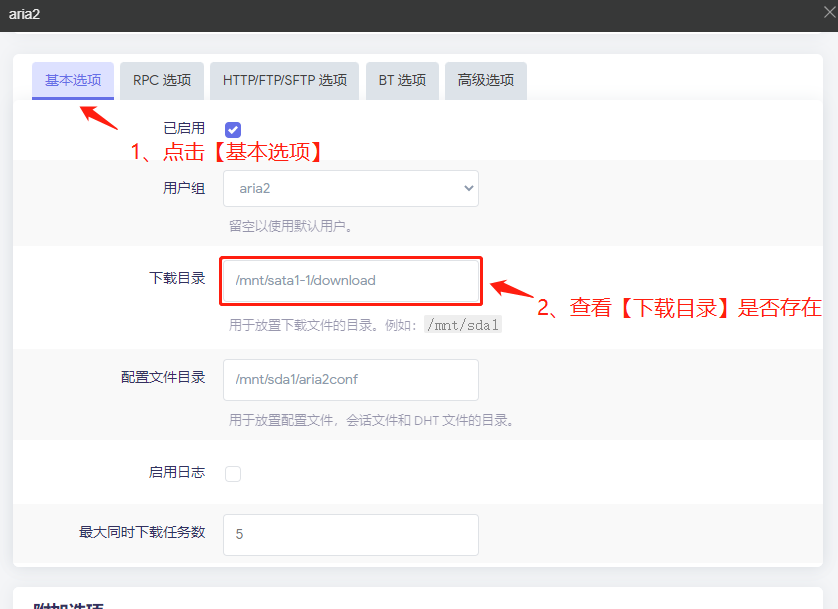
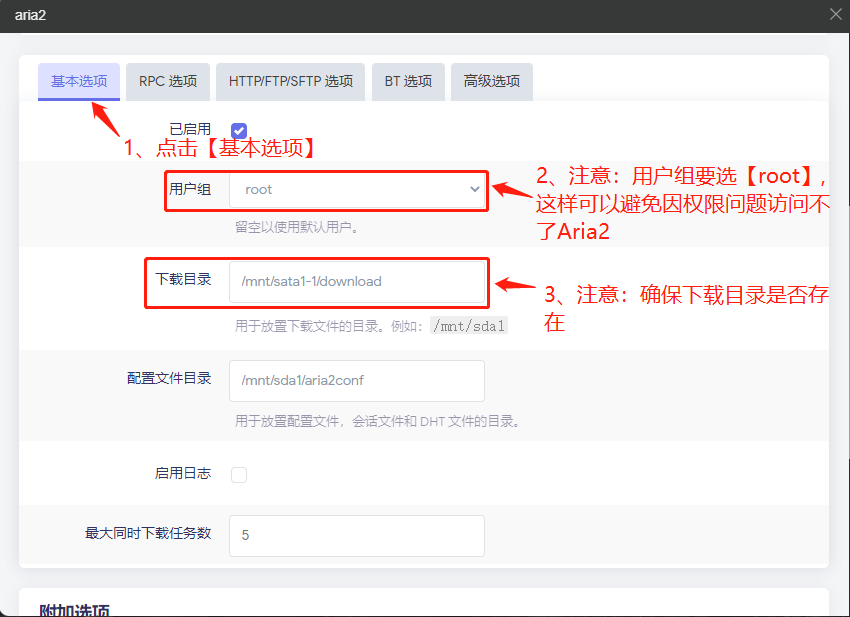
commit Microsoft and wiki remote

diff --git a/docs/.vuepress/config.js b/docs/.vuepress/config.js
@@ -405,12 +405,16 @@ module.exports = ctx => ({
                                 {
                                     title: "常用软件配置", collapsable: true, children: [
                                         ["remote", "远程桌面"],
+                                        ["Microsoft", "下载微软远程软件"],
                                         ["downloads", "下载器插件"],
                                     ]
                                 },
                                 {
                                     title: "网络知识", collapsable: true, children: [
                                         ["remoteProtocol", "远程桌面选RDP还是VNC协议？"],
+                                        ["IP", "内网IP和公网IP的区别"],
+                                        ["networkSegment", "什么是网段，怎么判断我的两台设备是不是处在同一网段"],
+                                        ["DNS", "什么是DNS，域名和IP之间是什么关系"]
                                     ]
                                 },
                             ]

diff --git a/docs/zh/guide/ddnsto/remote_control.md b/docs/zh/guide/ddnsto/remote_control.md
@@ -1,70 +1,10 @@
 
 **<font color=#ff0000 > 首先确保已正确安装ddnsto插件，并且在控制台能看到对应设备在线 [参考安装教程](/zh/guide/ddnsto/start.md) </font>**
 
-## Windows RDP远程桌面
+### [查看被控电脑如何开启远程桌面教程](/zh/guide/wiki/remote.md)
+## RDP远程桌面
 
-### A.专业版开启RDP
-
-**Windows专业版或者更高级的版本是有开关的，可以直接开启电脑的RDP。**
-
-1.Win11：设置——系统——远程桌面——启用
-
-  ![Windows远程](./cloudapp/cloudapp-rdp0.jpg)
-
-2.Win10：设置——系统——远程桌面——启用远程桌面  
-
-  ![Windows远程](./cloudapp/cloudapp-rdp1.jpg)
-
-3.Win7：右键我的电脑——属性——左边侧栏高级系统设置——远程，在下方“远程桌面”方框下勾选“允许远程连接到此计算机”
-  
-  ![Windows远程](./cloudapp/cloudapp-rdp2.jpeg)
-  
-  
-### B.家庭版开启RDP
-
-**Windows家庭版是无法直接开启电脑的RDP，所以需要借助工具。**
-
-1.首先，需要安装SuperRDP
- [点击进入下载](https://github.com/anhkgg/SuperRDP/releases)；
-
-  ![Windows远程](./cloudapp/rdp/rdp1.jpg)
-
-2.下载后解压，运行SuperRDP.exe(需管理员权限)；
-
-  ![Windows远程](./cloudapp/rdp/rdp2.jpg)
-  
-运行后，根据提示选择1(安装)即可。
-  
-  ![Windows远程](./cloudapp/rdp/rdp3.jpg)
-
-3. 验证远程桌面服务是否成功。
-
-* Win+R，输入 mstsc.exe 启动远程桌面程序；
-
-* 输入127.0.0.1，连接成功基本验证服务启用成功。
-
-  ![Windows远程](./cloudapp/rdp/rdp4.jpg)
-  
-
-### C.开始设置  
-  
-1.查看被控制的电脑的IP和用户名/密码。
-
-* 查看IP：控制面板——网络和Internet——网络共享中心，点击“连接”，出来弹窗点击“详细信息”——IPv4地址。
-
-ps：查看IP方法很多，不一定是这一种。
-
-  ![Windows远程](./cloudapp/cloudapp-rdp3.jpg)
-
-
-* 查看用户名：控制面板——用户账户——用户账户，能看到用户名，密码自己设定的。
-
-PS：某些用户是用的微软帐号，没启用本地帐号，那么就使用微软帐号和密码。
-
-或者简单点：电脑开机登录的时候，显示的用户名和要输入的密码。
-
-   ![Windows远程](./cloudapp/cloudapp-rdp4.jpg) 
- 
+1.[如何查看被控电脑的用户名和密码教程](/zh/guide/wiki/remote.md#查看被控电脑的用户名和密码)  
 2.在ddnsto可用应用列表中点击添加远程RDP，填入被控电脑的IP，用户名，密码等信息。
 
    ![Windows远程](./cloudapp/cloudapp-rdp5.jpg) 
@@ -73,7 +13,7 @@ PS：某些用户是用的微软帐号，没启用本地帐号，那么就使用
 
    ![Windows远程](./cloudapp/cloudapp-rdp6.jpg)  
    
-4.相关提醒：
+**4.相关提醒：**
 
 * 被控电脑必须联网且是在设置好穿透(DDNSTO)的网络下；
   
@@ -82,14 +22,11 @@ ps：假如想远程朋友的电脑，朋友的电脑只是联网，没DDNSTO，
 * 被控电脑必须是开机状态，且没进入休眠状态。
   
   
-##  VNC远程桌面
-1.VNC服务端下载、安装、配置。例如：[安装RealVNC](https://www.realvnc.com/en/connect/download/vnc/)
+## VNC远程桌面
 
-   ![Linux-VNC](./cloudapp/cloudapp-vnc1.jpeg)  
-
-2.而DDNSTO的远程VNC，充当VNC Viewer，写好参数，就能远程了。
+DDNSTO的远程VNC，充当VNC Viewer，写好参数，就能远程了。
  
-   ![Linux-VNC](./cloudapp/cloudapp-vnc2.jpeg)  
+![Linux-VNC](./cloudapp/cloudapp-vnc2.jpeg)  
 
 ## 相关链接
 - 如需更流畅、更快，或想使用windows远程桌面客户端，请使用易有云[异地互联](/zh/guide/linkease/remote.md)

diff --git a/docs/zh/guide/wiki/IP.md b/docs/zh/guide/wiki/IP.md
@@ -1,0 +1,28 @@
+## 内网IP和公网IP的区别
+
+内网IP和公网IP是不同的，主要区别在于它们的使用范围和使用目的不同。
+
+### 什么是内网IP？
+
+局域网举个例子就是我们路由器以内的所有设备组成的内部网络。也可以延伸到学校内部网络，公司内部网络。  
+这些网络是不对外部网络开放的，也就是说，我们无法在局域网外访问内部网络。  
+内部网络每个设备都有一个ip，这个就是局域网ip，有了它我们可以对任何一个设备进行定位，管理。  
+内网的IP一般都是192.168.1.100、192.168.0.100、172.16.1.100……这些都是内网IP。  
+通常，内网IP是由路由器在分配IP地址时自动分配的，并在**局域网内唯一**。   
+可以使用局域网内的任何一个电脑访问局域网内的其他设备（电脑、打印机、扫描仪等）。 
+
+### 什么是公网IP？
+
+公网就是指的互联网，其实互联网是一个全球的大局域网，覆盖的范围可以是几十公里到几千公里。    
+它能连接多个地区、城市和国家提供远距离通信，形成全球性的互联网络。  
+公网ip就相当于一扇门，这个门后面就是我们家里的局域网。  
+有了公网ip，我们只要在有网络的地方，就可以迅速通过公网ip找到你的家门，然后找到家中的任何一个设备。  
+公网IP地址是**全球唯一的**，并由因特网号码分配机构（ICANN）管理。  
+通常，网络服务提供商会为用户提供一个固定的公网IP地址，以便用户在互联网上访问各种网站或服务。
+
+### 总结
+对我们来说，公网IP的主要作用就是外网访问。  
+虽然各品牌nas都有自己的外网访问方法，但使用起来速度真的很辣鸡，而且只能文件访问，很多影音功能以及docker服务无法使用。  
+有了公网IP，这些通通不是问题，设置好域名解析和端口映射，访问速度可以跑满上行带宽，任何服务都可以使用。外网在线看nas里的电影不是梦。    
+有了公网ip，其实我们还可以做很多事情，例如远程桌面、网络多拨、优化网络提高相关的收益等等，特别是有nas的朋友，公网ip显得非常重要。
+

diff --git a/docs/zh/guide/wiki/remoteProtocol.md b/docs/zh/guide/wiki/remoteProtocol.md
@@ -1,24 +1,17 @@
 ## 远程桌面选RDP还是VNC？
 
-要远程电脑桌面时，你在纠结是使用RDP还是VNC？  
-我们可以考虑以下一些因素来判断是使用 RDP 还是 VNC。  
+要远程电脑桌面时，你在纠结是使用RDP还是VNC？   
 
 ### 什么是RDP？
 
-RDP 是远程桌面协议的缩写，它是微软开发的一种协议。  
-RDP 支持多种操作系统，如 Windows、Linux 和 macOS。  
+RDP 是远程桌面协议（Remote Desktop Protocol）的缩写，它是微软开发的一种协议。  
 RDP 协议是专门为 Windows 操作系统设计的，因此在访问 Windows 操作系统时效果最佳。  
-RDP 有很好的性能和安全性，但是它不能跨平台使用。  
+远程 Windows 桌面建议使用 RDP 来远程。   
 
 ### 什么是VNC？
 
-VNC 是 Virtual Network Computing 的缩写，它是一种开放源代码的远程桌面协议。  
-VNC 支持多种操作系统，包括 Windows、Linux 和 macOS。  
+VNC 是虚拟网络控制台（Virtual Network Computing）的缩写，它是一种开放源代码的远程桌面协议。  
 VNC 可以跨平台使用，因此在访问不同操作系统的计算机时非常有用。  
+比如：远程 Linux 和 macOS 建议使用 VNC 来远程。
 
-### 总结
-
-我们可以根据具体情况选择 RDP 或 VNC。  
-如果您要访问 Windows 操作系统，建议使用 RDP，因为它是专门为 Windows 设计的。  
-如果您需要跨平台访问计算机，建议使用 VNC。  
 

diff --git a/docs/zh/guide/wiki/networkSegment.md b/docs/zh/guide/wiki/networkSegment.md
@@ -1,0 +1,20 @@
+## 什么是网段，怎么判断我的两台设备是不是处在同一网段
+
+### 什么是网段？
+
+网段是指在一个网络中，所有具有相同网络地址的 IP 地址所构成的范围。  
+在 IPv4 中，IP 地址由网络地址和主机地址两部分组成。 
+
+### 怎么判断我的两台设备是不是处在同一网段？
+
+判断两台设备是否处在同一网段，需要比较它们的网络地址部分是否相同。   
+如果两台设备的网络地址部分相同，它们就处在同一个网段中。
+
+在 IPv4 中，网络地址和子网掩码一起决定了一个 IP 地址所在的网段。  
+子网掩码用于在 IP 地址中标识网络地址和主机地址的边界。  
+判断两台设备是否处在同一网段，可以通过比较它们的网络地址和子网掩码来确定。
+
+例如：假设设备 A 的 IP 地址为 192.168.1.100，子网掩码为 255.255.255.0  
+设备 B 的 IP 地址为 192.168.2.100，子网掩码为 255.255.0.0
+那么设备 A 和设备 B 不处在同一个网段中，因为它们的网络地址不同。
+如果设备 B 的子网掩码也是 255.255.255.0，那么设备 A 和设备 B 就处在同一个网段中，因为它们的网络地址相同。

diff --git a/docs/zh/guide/wiki/remote.md b/docs/zh/guide/wiki/remote.md
@@ -41,7 +41,9 @@
 
   ![image](./image/remote/rdp4.jpg)
 
-## 开启Mac VNC远程
+## 开启 VNC远程
+
+### Mac电脑开启 VNC 
 1. 在电脑开始菜单列表，选择【系统偏好设置】。
 
   ![image](./image/remote/remote-vnc1.jpg)
@@ -58,3 +60,28 @@
 
  ![image](./image/remote/remote-vnc4.jpg)
 
+ ### Linux、树莓派等系统开启 VNC
+
+VNC服务端下载、安装、配置。例如：[安装RealVNC](https://www.realvnc.com/en/connect/download/vnc/)
+
+![image](./image/remote/remote-vnc5.jpg)
+
+
+## 查看被控电脑的用户名和密码
+
+1.查看被控制的电脑的IP和用户名/密码。
+
+* 查看IP：控制面板——网络和Internet——网络共享中心，点击“连接”，出来弹窗点击“详细信息”——IPv4地址。
+
+ps：查看IP方法很多，不一定是这一种。
+
+  ![image](./image/remote/remote-vnc6.jpg)
+
+
+* 查看用户名：控制面板——用户账户——用户账户，能看到用户名，密码自己设定的。
+
+PS：某些用户是用的微软帐号，没启用本地帐号，那么就使用微软帐号和密码。
+
+或者简单点：电脑开机登录的时候，显示的用户名和要输入的密码。
+
+![image](./image/remote/remote-vnc7.jpg)

diff --git a/docs/zh/guide/linkease/tips/remote.md b/docs/zh/guide/linkease/tips/remote.md
@@ -23,18 +23,10 @@
 ![image](./image/remote/21.jpg)
 
 ### 第三步：被控电脑（公司电脑）开启远程桌面
-- Windows 电脑开启远程桌面:  
- A.[Windows专业版开启远程桌面](/zh/guide/ddnsto/cloudapp.html#a-%E4%B8%93%E4%B8%9A%E7%89%88%E5%BC%80%E5%90%AFrdp)  
- B.[Windows家庭版开启远程桌面](/zh/guide/ddnsto/cloudapp.html#b-%E5%AE%B6%E5%BA%AD%E7%89%88%E5%BC%80%E5%90%AFrdp)  
+**被控电脑（公司电脑）[查看开启远程桌面教程](/zh/guide/wiki/remote.md)** 
 
 ### 第四步：家里电脑下载微软远程软件
-- 在微软应用商店下载微软远程软件。
-
-![image](./image/remote/26.jpg)
-
-- 下载完成后，可以在电脑【菜单栏】找到微软远程软件。
-
-![image](./image/remote/27.jpg)
+**[查看下载微软远程软件教程](/zh/guide/wiki/Microsoft.md)**
 
 ### 第五步：复制【私有IP】或【私有域名】到微软远程软件打开
 

diff --git a/docs/zh/guide/wiki/downloads.md b/docs/zh/guide/wiki/downloads.md
@@ -2,7 +2,7 @@
 
 ### 设置Aria2
 **以OpenWrt为例**
-1. 下载好Aria2插件后，进入设置页面，点击【基本选项】，查看【下载目录】的路径是否存在或者是否正确。
+1. 下载好Aria2插件后，进入设置页面，点击【基本选项】，用户组要选择【root】，这样可以避免因权限问题访问不了Aria2，确认【下载目录】的路径是否存在或者是否正确。
 
   ![image](./image/Aria2/1.jpg)
 
@@ -17,7 +17,7 @@
 
  ![image](./image/Aria2/4.jpg)
 
- 4. 点击【Aria2 设置】，找到【BitTorrent 设置】，找到【BT 排除服务器地址】输入tracker链接。
+ 4. 点击【Aria2 设置】，找到【BitTorrent 设置】，找到【BT 服务器地址】输入tracker链接。
 
 ![image](./image/Aria2/5.jpg)
 
@@ -77,6 +77,3 @@
 3. 可以看到电影正在下载中。
 
 ![image](./image/Transmission/3.jpg)
-
-
-

diff --git a/docs/zh/guide/wiki/DNS.md b/docs/zh/guide/wiki/DNS.md
@@ -1,0 +1,9 @@
+## 什么是DNS，域名和IP之间是什么关系
+
+### 什么是DNS？
+
+DNS是域名系统（Domain Name System）的缩写，是互联网的一项服务。DNS作为将域名和IP地址相互映射的一个分布式数据库，能够使人更方便地访问互联网。  
+我们本地的计算机在接入网络的时候，都会自动分配一个DNS服务器的IP地址，这个DNS服务器叫做本地域名服务器，一般是由网络服务商提供的。    
+在浏览器里输入一个域名，例如：www.baidu.com，单击回车键以后，就是DNS发挥作用的时候了。  
+
+

diff --git a/docs/zh/guide/wiki/Microsoft.md b/docs/zh/guide/wiki/Microsoft.md
@@ -1,0 +1,9 @@
+## 下载微软远程软件
+
+- 在微软应用商店下载微软远程软件。
+
+![image](./image/Microsoft/1.jpg)
+
+- 下载完成后，可以在电脑【菜单栏】找到微软远程软件。
+
+![image](./image/Microsoft/2.jpg)
